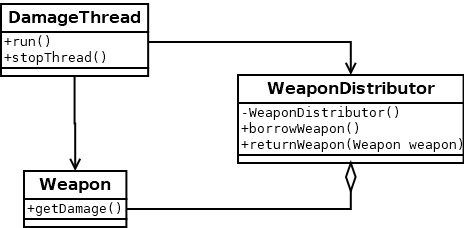
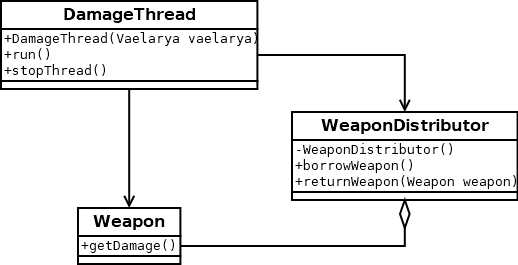
refactoring and readme

Changed region(s): [[0.0, 0.0, 1.0, 1.0]]

diff --git a/src/main/java/com/dt181g/project/models/threads/DamageThread.java b/src/main/java/com/dt181g/project/models/threads/DamageThread.java
@@ -1,6 +1,9 @@
-package com.dt181g.project.models;
+package com.dt181g.project.models.threads;
 
+import com.dt181g.project.models.Vaelarya;
 import com.dt181g.project.support.Constants;
+import com.dt181g.project.support.Weapon;
+import com.dt181g.project.support.WeaponDistributor;
 
 import java.util.Random;
 
@@ -10,8 +13,15 @@ import java.util.Random;
  */
 public class DamageThread implements Runnable {
 
-    // Boolean that controls the lifetime of the thread.
-    private volatile boolean terminate = false;
+    private volatile boolean terminate = false; // Boolean that controls the lifetime of the thread.
+    private final Vaelarya vaelarya;
+
+    /**
+     * Constructor that sets the Vaelarya (dragon) which the monsters damage.
+     */
+    public DamageThread (Vaelarya vaelarya) {
+        this.vaelarya = vaelarya;
+    }
 
     /**
      * Overridden method that simulates damaging in the game.
@@ -28,7 +38,7 @@ public class DamageThread implements Runnable {
                     // If a weapon is available, sleep representing the time it takes to swing the weapon.
                     Thread.sleep((new Random().nextInt(Constants.SLEEP_SWING_WEAPON) + 1) * 1000);
                     // Remove health from the health meter.
-                    Vaelarya.INSTANCE.removeHealth(weapon.getDamage());
+                    vaelarya.removeHealth(weapon.getDamage());
                     // Return the weapon.
                     distributor.returnWeapon(weapon);
                     // Sleep representing rest time, fighting is exhausting.

diff --git a/src/main/java/com/dt181g/project/models/threads/HealThread.java b/src/main/java/com/dt181g/project/models/threads/HealThread.java
@@ -1,5 +1,6 @@
-package com.dt181g.project.models;
+package com.dt181g.project.models.threads;
 
+import com.dt181g.project.models.Vaelarya;
 import com.dt181g.project.support.Constants;
 
 import java.util.Random;
@@ -10,8 +11,15 @@ import java.util.Random;
  */
 public class HealThread implements Runnable {
 
-    // Boolean that controls the lifetime of the thread.
-    private volatile boolean terminate = false;
+    private volatile boolean terminate = false; // Boolean that controls the lifetime of the thread.
+    private final Vaelarya vaelarya;
+
+    /**
+     * Constructor that sets the Vaelarya (dragon) which is the object being healed.
+     */
+    public HealThread (Vaelarya vaelarya) {
+        this.vaelarya = vaelarya;
+    }
 
     /**
      * Overridden method that simulates healing in the game.
@@ -20,7 +28,7 @@ public class HealThread implements Runnable {
     public void run() {
         while (!terminate) {
             try {
-                Vaelarya.INSTANCE.addHealth(new Random().nextInt(Constants.MAX_HEALING_AMOUNT) + 1);
+                vaelarya.addHealth(new Random().nextInt(Constants.MAX_HEALING_AMOUNT) + 1);
                 Thread.sleep(Constants.SLEEP_HEAL * 1000);
             } catch (InterruptedException e) {
                 e.printStackTrace();

diff --git a/src/main/java/com/dt181g/project/controllers/Controller.java b/src/main/java/com/dt181g/project/controllers/Controller.java
@@ -2,6 +2,8 @@ package com.dt181g.project.controllers;
 
 import com.dt181g.project.models.*;
 import com.dt181g.project.factories.BaseCharacter;
+import com.dt181g.project.models.threads.DamageThread;
+import com.dt181g.project.models.threads.HealThread;
 import com.dt181g.project.support.Constants;
 import com.dt181g.project.views.*;
 import com.dt181g.project.views.components.HealthBarPanel;
@@ -26,9 +28,9 @@ public class Controller implements Observer {
     private final Level3View level3View;
     private final Level4View level4View;
     private final Level5View level5View;
-    private final Vaelarya vaelarya = Vaelarya.INSTANCE;
-    private final HealThread healThread = new HealThread();
-    private final DamageThread damageThread = new DamageThread();
+    private final Vaelarya vaelarya = new Vaelarya();
+    private final HealThread healThread = new HealThread(vaelarya);
+    private final DamageThread damageThread = new DamageThread(vaelarya);
     private final Deque<DamageThread> damageThreads = new LinkedList<>();
     private final Timer timer = new Timer(150, e -> {
         updateLevel5View();

diff --git a/src/main/java/com/dt181g/project/models/Vaelarya.java b/src/main/java/com/dt181g/project/models/Vaelarya.java
@@ -9,18 +9,13 @@ import java.util.List;
 
 /**
  * Observable class that represents the amount of health of the dragon Vaelarya,
- * communicating directly with the actors, implemented as a Singleton.
+ * communicating directly with the actors.
  * @author Emma Pesjak
  */
 public class Vaelarya implements Observable {
-    public static final Vaelarya INSTANCE = new Vaelarya();
+
     public List<Observer> observers = new ArrayList<>();
     public volatile int health = Constants.VAELARYA_START_HEALTH;
-
-    /**
-     * Private constructor.
-     */
-    private Vaelarya() {}
 
     /**
      * {@inheritDoc}

diff --git a/src/main/java/com/dt181g/project/factories/package-info.java b/src/main/java/com/dt181g/project/factories/package-info.java
@@ -1,4 +1,4 @@
 /**
- * Package for all components for the factory method and abstract factory patterns.
+ * Package for all entities for the factory method and abstract factory patterns.
  */
 package com.dt181g.project.factories;

diff --git a/src/main/java/com/dt181g/project/support/WeaponDistributor.java b/src/main/java/com/dt181g/project/support/WeaponDistributor.java
@@ -1,4 +1,4 @@
-package com.dt181g.project.models;
+package com.dt181g.project.support;
 
 import java.util.concurrent.BlockingQueue;
 import java.util.concurrent.LinkedBlockingQueue;

diff --git a/src/main/java/com/dt181g/project/support/Weapon.java b/src/main/java/com/dt181g/project/support/Weapon.java
@@ -1,6 +1,4 @@
-package com.dt181g.project.models;
-
-import com.dt181g.project.support.Constants;
+package com.dt181g.project.support;
 
 import java.util.Random;
 

diff --git a/src/main/java/com/dt181g/project/factories/colors/package-info.java b/src/main/java/com/dt181g/project/factories/colors/package-info.java
@@ -1,4 +1,4 @@
 /**
- * Package for all colors in the game.
+ * Package for all character colors in the game.
  */
 package com.dt181g.project.factories.colors;

diff --git a/src/main/java/com/dt181g/project/views/Level5View.java b/src/main/java/com/dt181g/project/views/Level5View.java
@@ -120,5 +120,4 @@ public class Level5View extends BaseView {
     void addButtonListener() {
         myButton.addActionListener(listener);
     }
-
 }

diff --git a/src/main/java/com/dt181g/project/models/threads/package-info.java b/src/main/java/com/dt181g/project/models/threads/package-info.java
@@ -1,0 +1,4 @@
+/**
+ * Package for all thread classes.
+ */
+package com.dt181g.project.models.threads;
